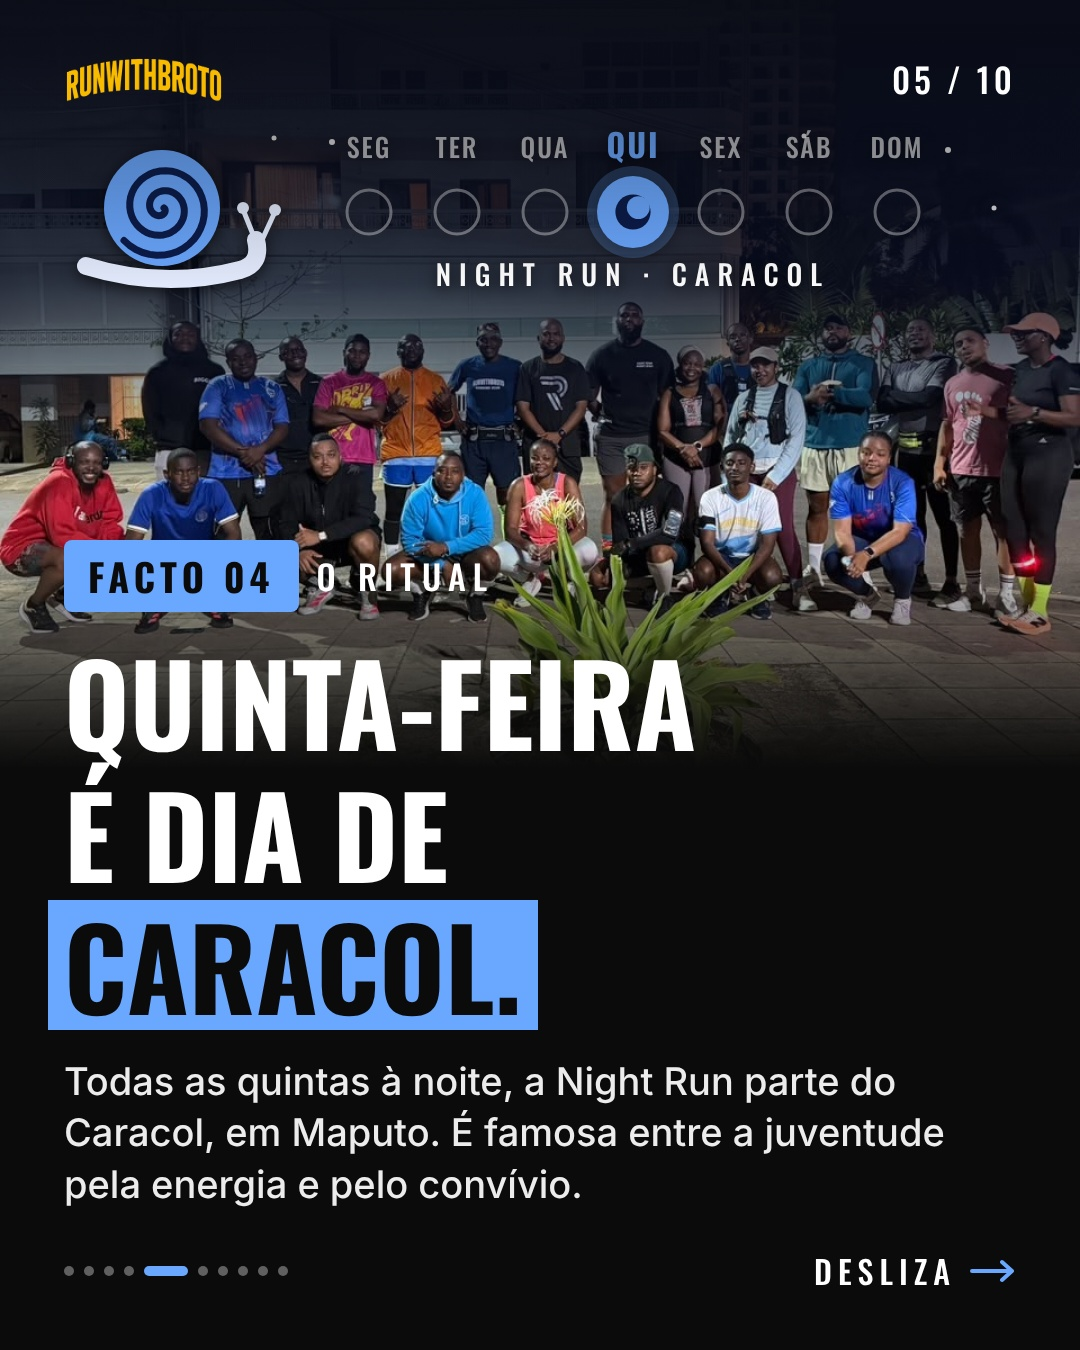
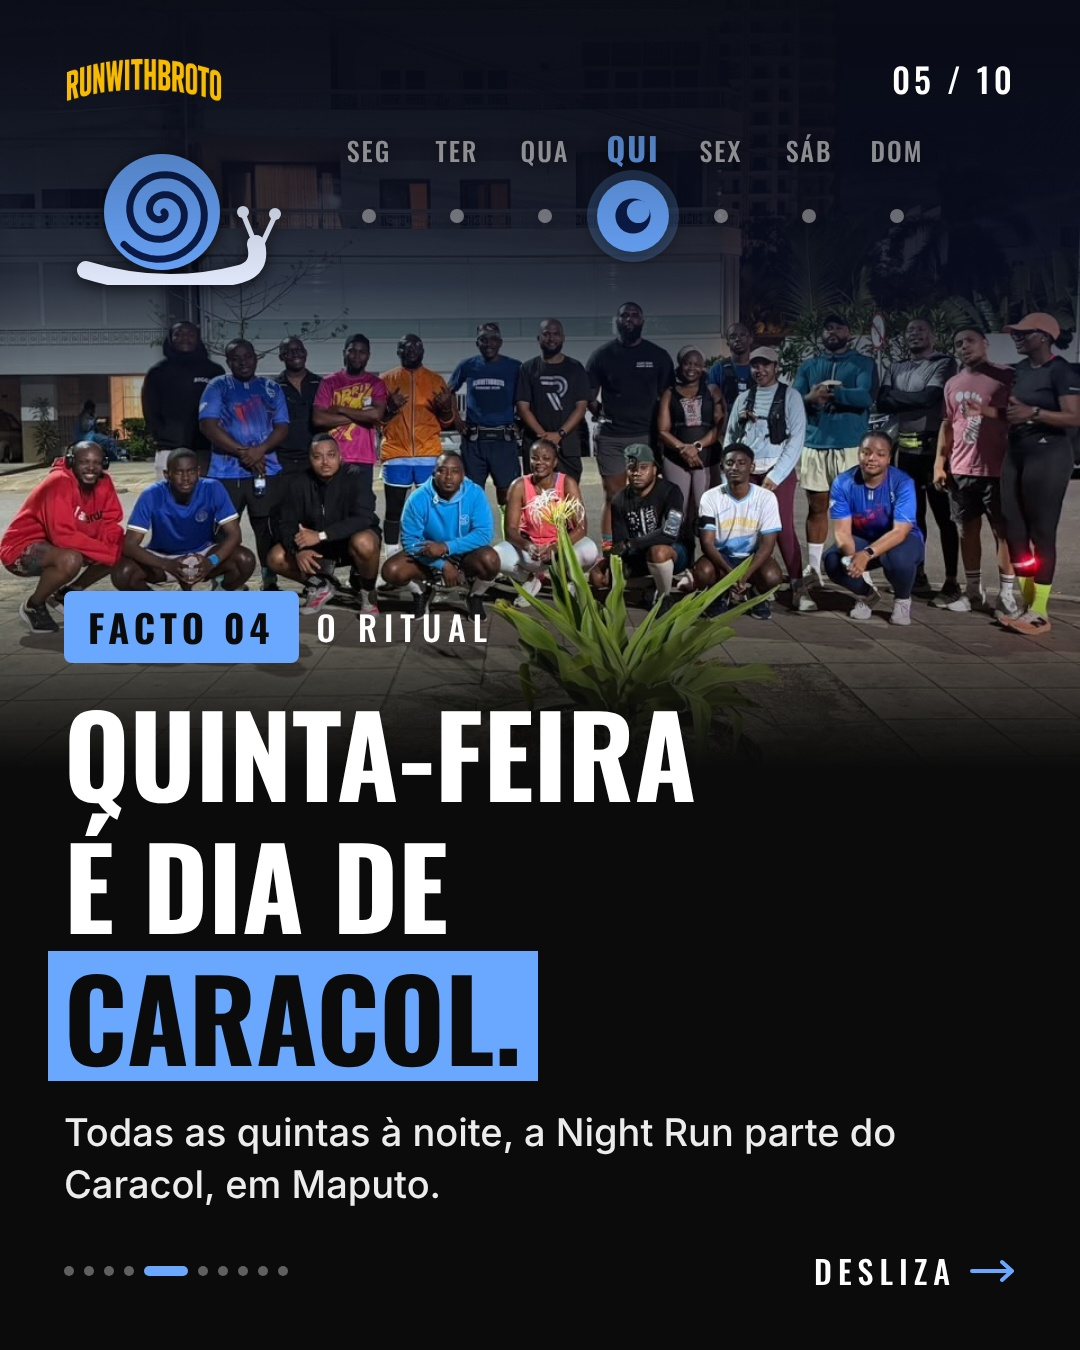
Slide Night Run mais limpo: texto termina em Maputo e arte simplificada
Claude-Session: https://claude.ai/code/session_01DkaCWGXuFd6yQ1MSFtQr7D

diff --git a/src/facts.ts b/src/facts.ts
@@ -21,7 +21,7 @@ export const FACTS: Fact[] = [
   {kicker: "FACTO 01", chapter: "A ORIGEM", anim: "slideUp", title: "Nasceu de uma\ntransformação\npessoal.", body: "Fundado por Broto (@obroto_), que usou a corrida para criar disciplina e mudar a própria vida. Depressa deixou de ser só dele: virou um fenómeno coletivo.", photo: "photos/broto.jpg"},
   {kicker: "FACTO 02", chapter: "A EXPANSÃO", anim: "slideUp", title: "Nasceu em\nMaputo.\nChegou à Matola.", body: "A comunidade saiu de Maputo e levou a corrida a novas ruas.", photo: "photos/02.jpg", cut: "photos/02-cut.png", pos: "52% 50%", route: ["MAPUTO", "MATOLA"]},
   {kicker: "FACTO 03", chapter: "O LEMA", anim: "words", deco: "pack", title: "Ninguém fica\npara trás.", body: "We run together. We grow together. A consistência vence a motivação. E a rua é para todos.", photo: "photos/03.jpg", cut: "photos/03-cut.png"},
-  {kicker: "FACTO 04", chapter: "O RITUAL", anim: "slideX", accent: "#6aa7ff", title: "Quinta-feira\né dia de\nCaracol.", body: "Todas as quintas à noite, a Night Run parte do Caracol, em Maputo. É famosa entre a juventude pela energia e pelo convívio.", photo: "photos/night.jpg"},
+  {kicker: "FACTO 04", chapter: "O RITUAL", anim: "slideX", accent: "#6aa7ff", title: "Quinta-feira\né dia de\nCaracol.", body: "Todas as quintas à noite, a Night Run parte do Caracol, em Maputo.", photo: "photos/night.jpg"},
   {kicker: "FACTO 05", chapter: "O FORMATO", anim: "zoom", title: "Hybrid\nrace", body: "Cada grupo partiu de um ponto diferente. Todos se encontraram na mesma meta.", photo: "photos/fort.jpg"},
   {kicker: "FACTO 06", chapter: "A COMUNIDADE", anim: "wipeX", deco: "dots", title: "membros\nactivos.", body: "Eventos chegam a ter mais de 1 000 inscrições numa única semana.", photo: "photos/nov.jpg", stat: {to: 2500, prefix: "+"}},
   {kicker: "FACTO 07", chapter: "AS CAUSAS", anim: "slideX", accent: "#ff5fa2", title: "inscritos no\nOutubro Rosa.", body: "Uma corrida para conscientizar sobre a prevenção do câncer de mama.", photo: "photos/05.jpg", stat: {to: 1000, prefix: "+"}},

diff --git a/src/Carousel.tsx b/src/Carousel.tsx
@@ -189,11 +189,10 @@ const NightArt: React.FC<{accent: string}> = ({accent}) => {
   const DAYS = ["SEG", "TER", "QUA", "QUI", "SEX", "SÁB", "DOM"];
   const x = (i: number) => 305 + i * 88;
   return (
-    <svg width="952" height="180" viewBox="0 0 952 180" style={{position: "absolute", left: PAD, top: 116, filter: "drop-shadow(0 3px 8px rgba(0,0,0,0.7))"}}>
+    <svg width="952" height="165" viewBox="0 0 952 165" style={{position: "absolute", left: PAD, top: 120, filter: "drop-shadow(0 3px 8px rgba(0,0,0,0.7))"}}>
       <defs>
         <mask id="moonM"><rect width="100" height="100" fill="#fff" /><circle cx="62" cy="40" r="26" fill="#000" /></mask>
       </defs>
-      {[[268, 26, 3], [884, 34, 3], [930, 92, 2.5], [740, 20, 2.5], [210, 22, 2.5]].map(([cx, cy, r], i) => <circle key={i} cx={cx} cy={cy} r={r} fill="#fff" opacity="0.85" />)}
       {/* o caracol */}
       <g>
         <path d="M22 150 Q100 174 176 154 Q198 148 192 124" fill="none" stroke="#e4ecff" strokeWidth="18" strokeLinecap="round" />
@@ -215,11 +214,10 @@ const NightArt: React.FC<{accent: string}> = ({accent}) => {
                 <circle cx={x(i)} cy={96} r={36} fill={accent} />
                 <g transform={`translate(${x(i) - 22} ${96 - 22}) scale(0.44)`}><circle cx="50" cy="50" r="40" fill="#0b1b4a" mask="url(#moonM)" /></g>
               </g>
-            ) : <circle cx={x(i)} cy={96} r={22} fill="none" stroke="#fff" strokeWidth="3" opacity="0.4" />}
+            ) : <circle cx={x(i)} cy={96} r={7} fill="#fff" opacity="0.45" />}
           </g>
         );
       })}
-      <text x="569" y="170" textAnchor="middle" fontFamily={OSWALD} fontWeight={500} fontSize="28" letterSpacing="8" fill="#fff">NIGHT RUN · CARACOL</text>
     </svg>
   );
 };
